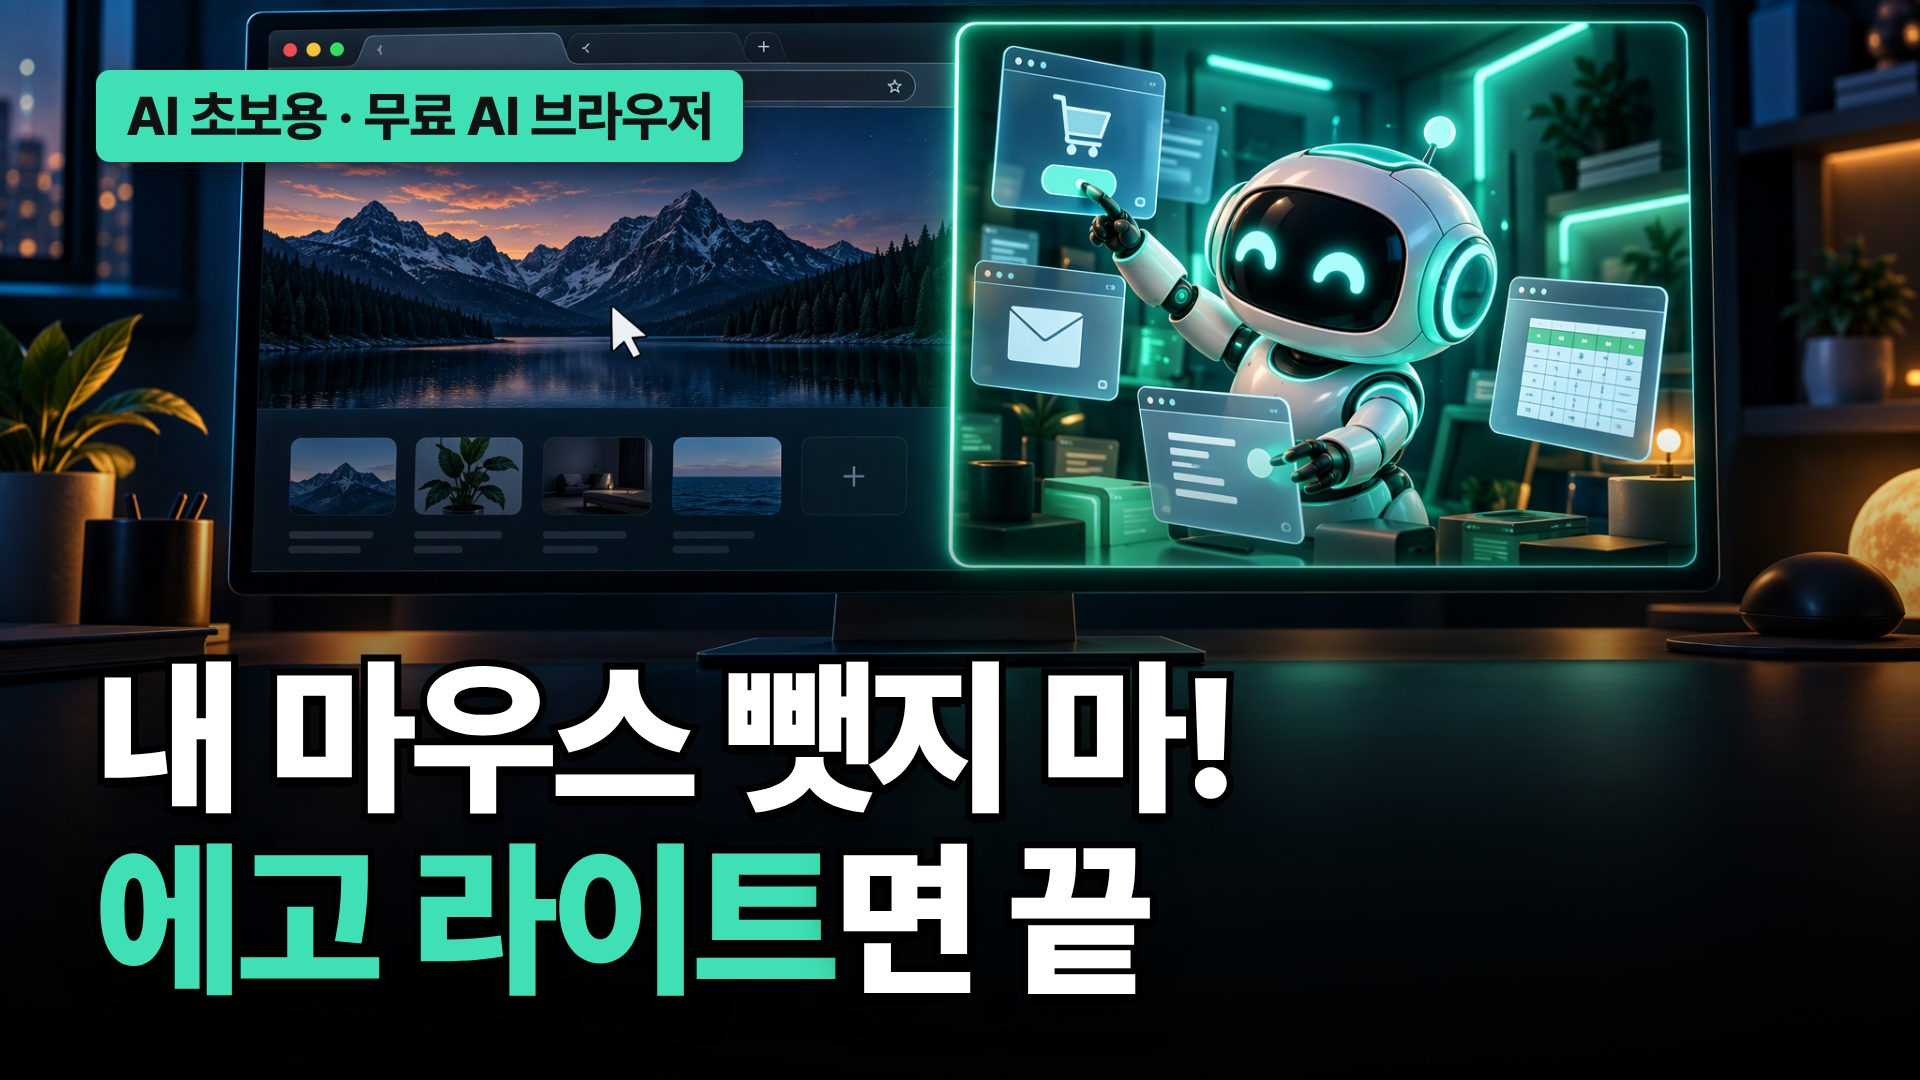
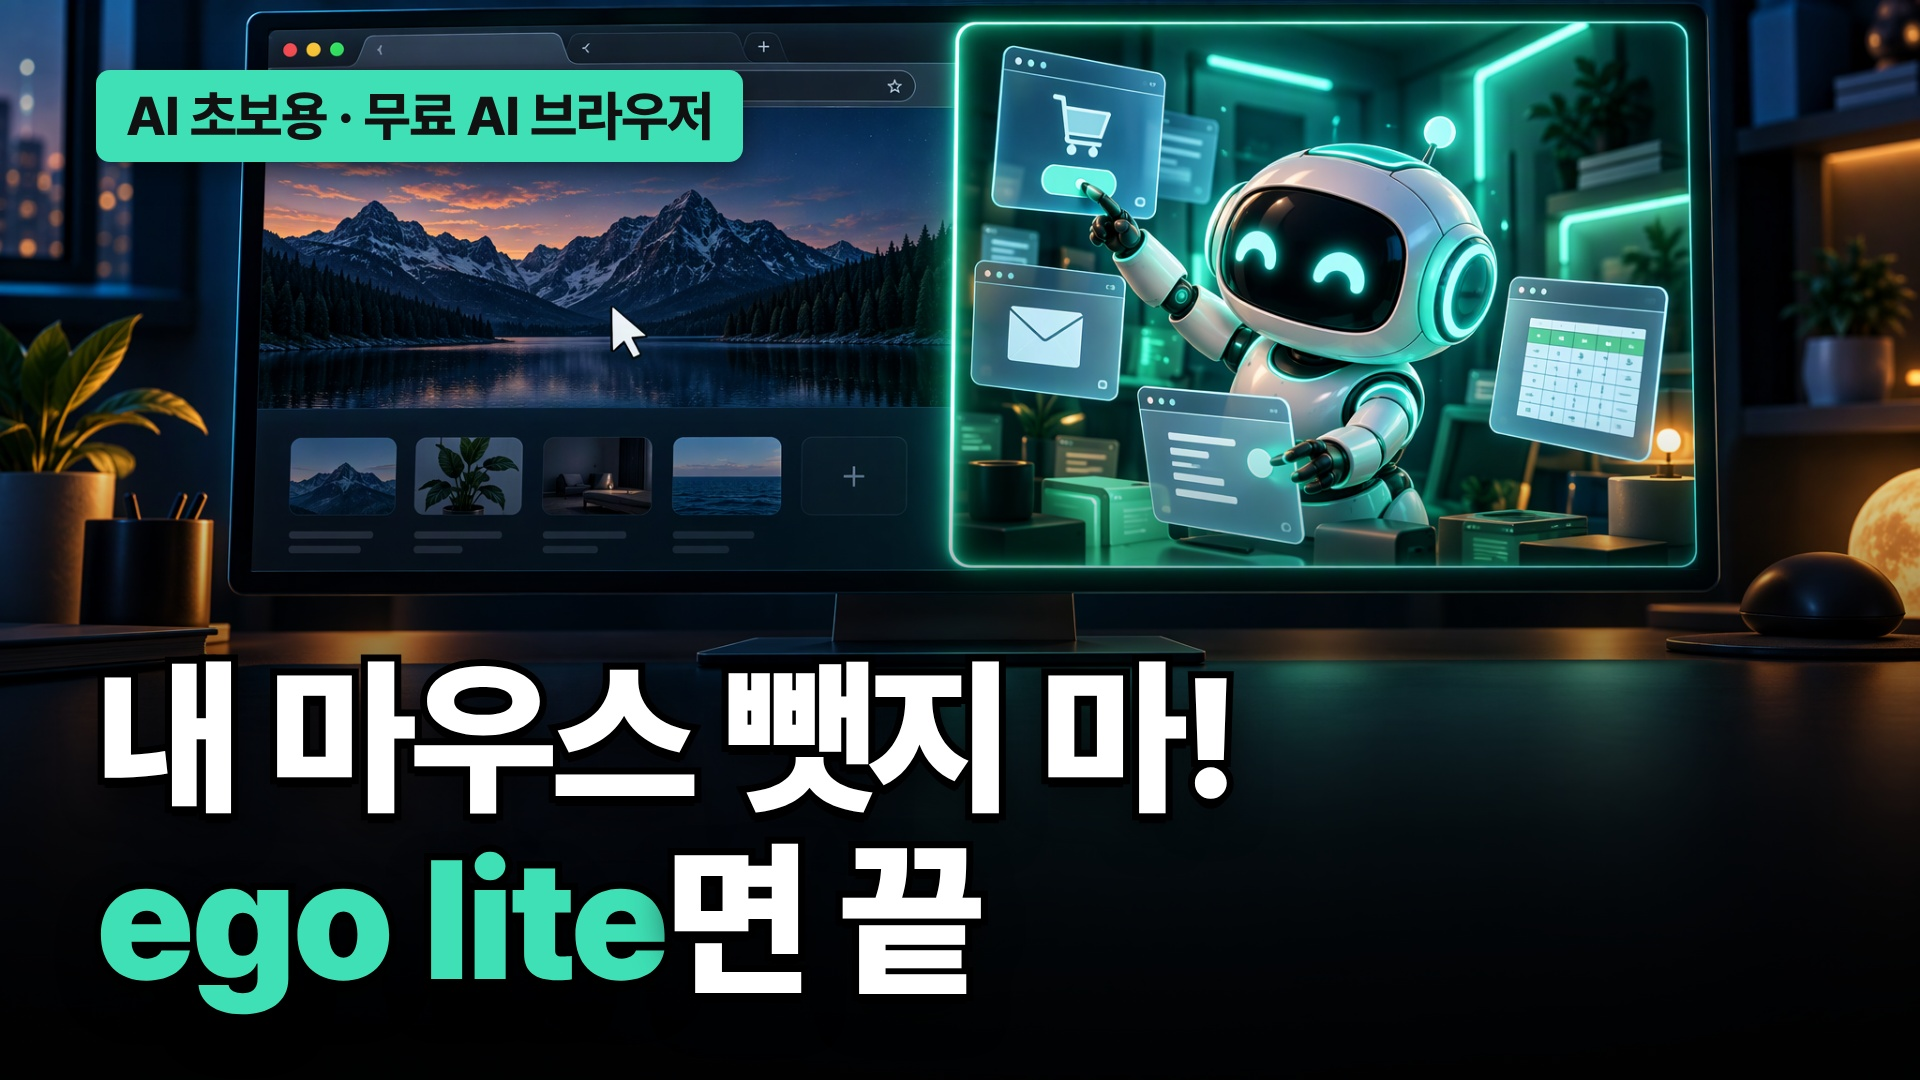
ego lite v3 세트: 썸네일 이름을 영어(ego lite)로
Claude-Session: https://claude.ai/code/session_01QAwgc5CgfRqDU2a4ySE2yW

Changed region(s): [[0.0312, 0.7639, 0.625, 0.9472]]

diff --git a/release/AI초보_에고라이트_사용법/버전기록.md b/release/AI초보_에고라이트_사용법/버전기록.md
@@ -4,3 +4,4 @@
 |---|---|---|---|---|
 | v1 | 2026-11-04 | 9:27 | 음성불일치 8 · 끊김 0 · 멈춤 7 · 검은화면 0 · 개인정보 0 · 자막 0 | 첫 풀영상: 시네마틱 인트로·punch 강조·설득형 목소리 |
 | v2 | 2026-11-04 | 9:28 | 음성불일치 2 · 끊김 0 · 멈춤 0 · 검은화면 0 · 개인정보 0 · 자막 0 | 장면 시작 정지 7곳·4.5초 정지 11곳에 강조 맥박, '넷째'·'순서는 이래요' 발음 고침, 전환음 -12→-16dB |
+| v3 | 2026-11-04 | 9:28 | 음성불일치 2 · 끊김 0 · 멈춤 0 · 검은화면 0 · 개인정보 0 · 자막 0 | 썸네일 이름을 영어 ego lite 로(영상·텍스트는 v2와 같음) |
